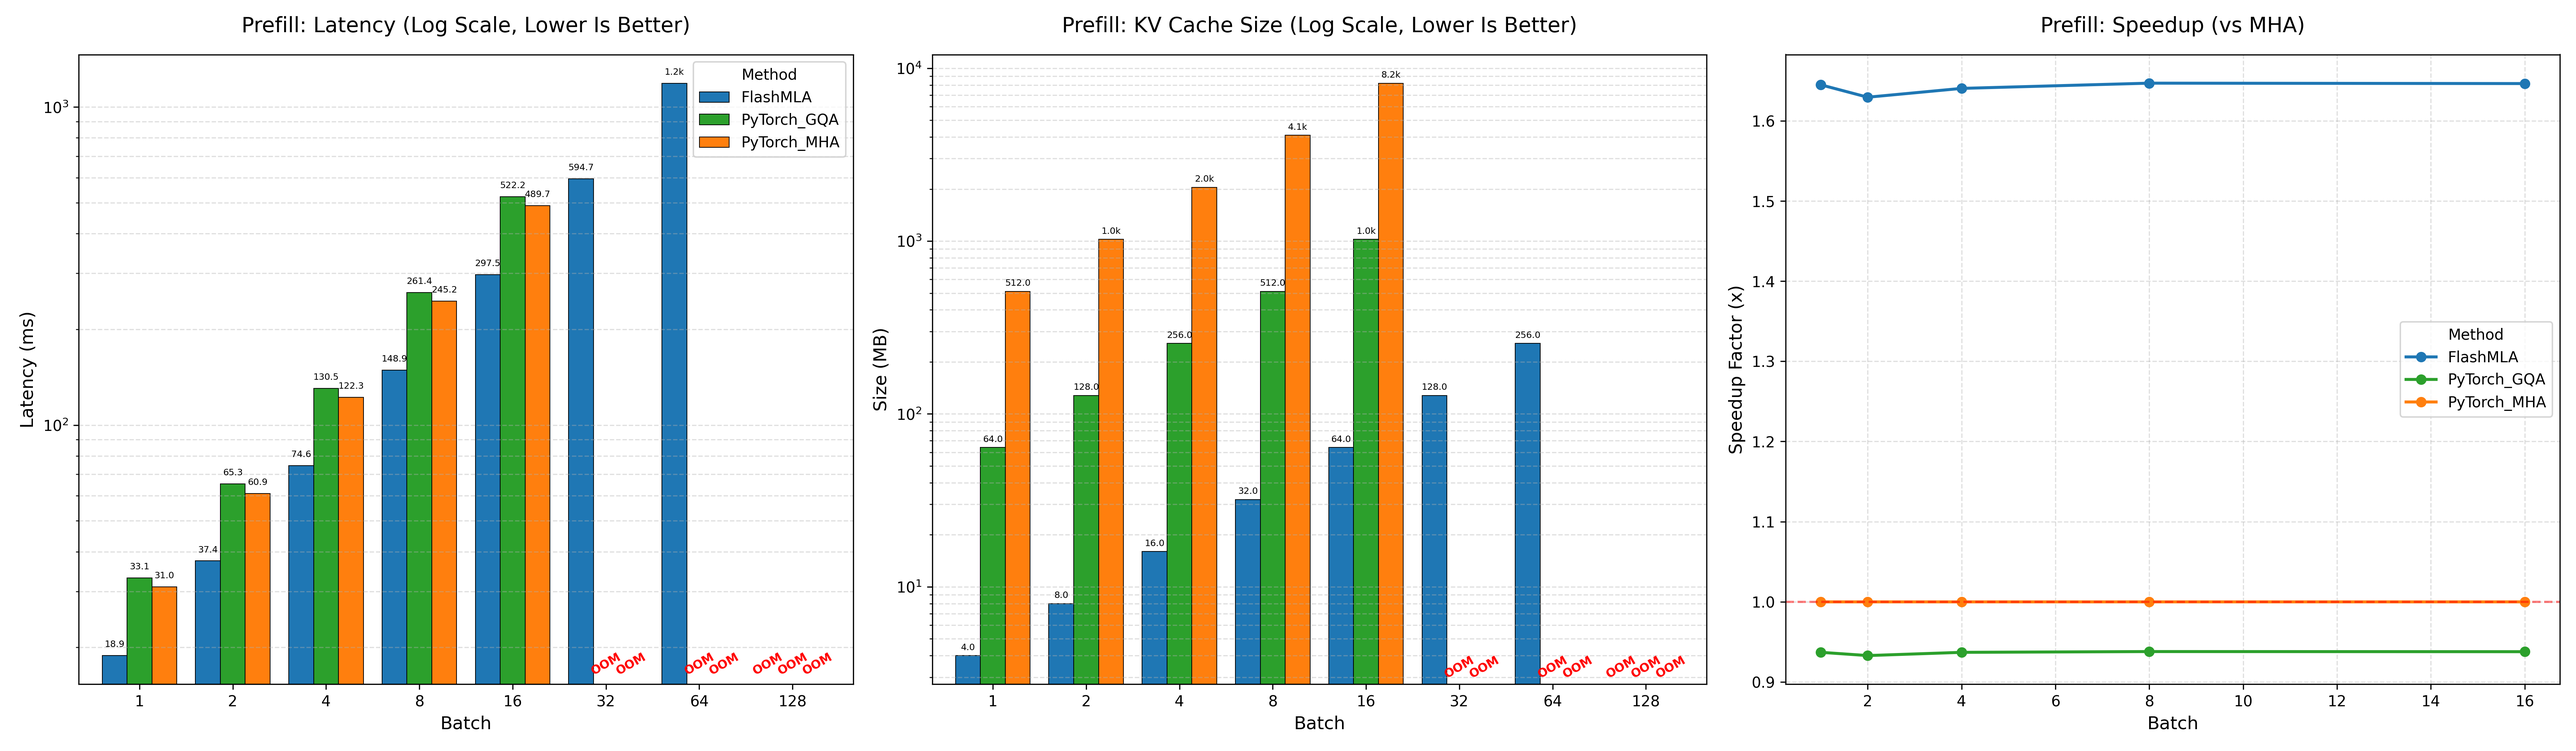
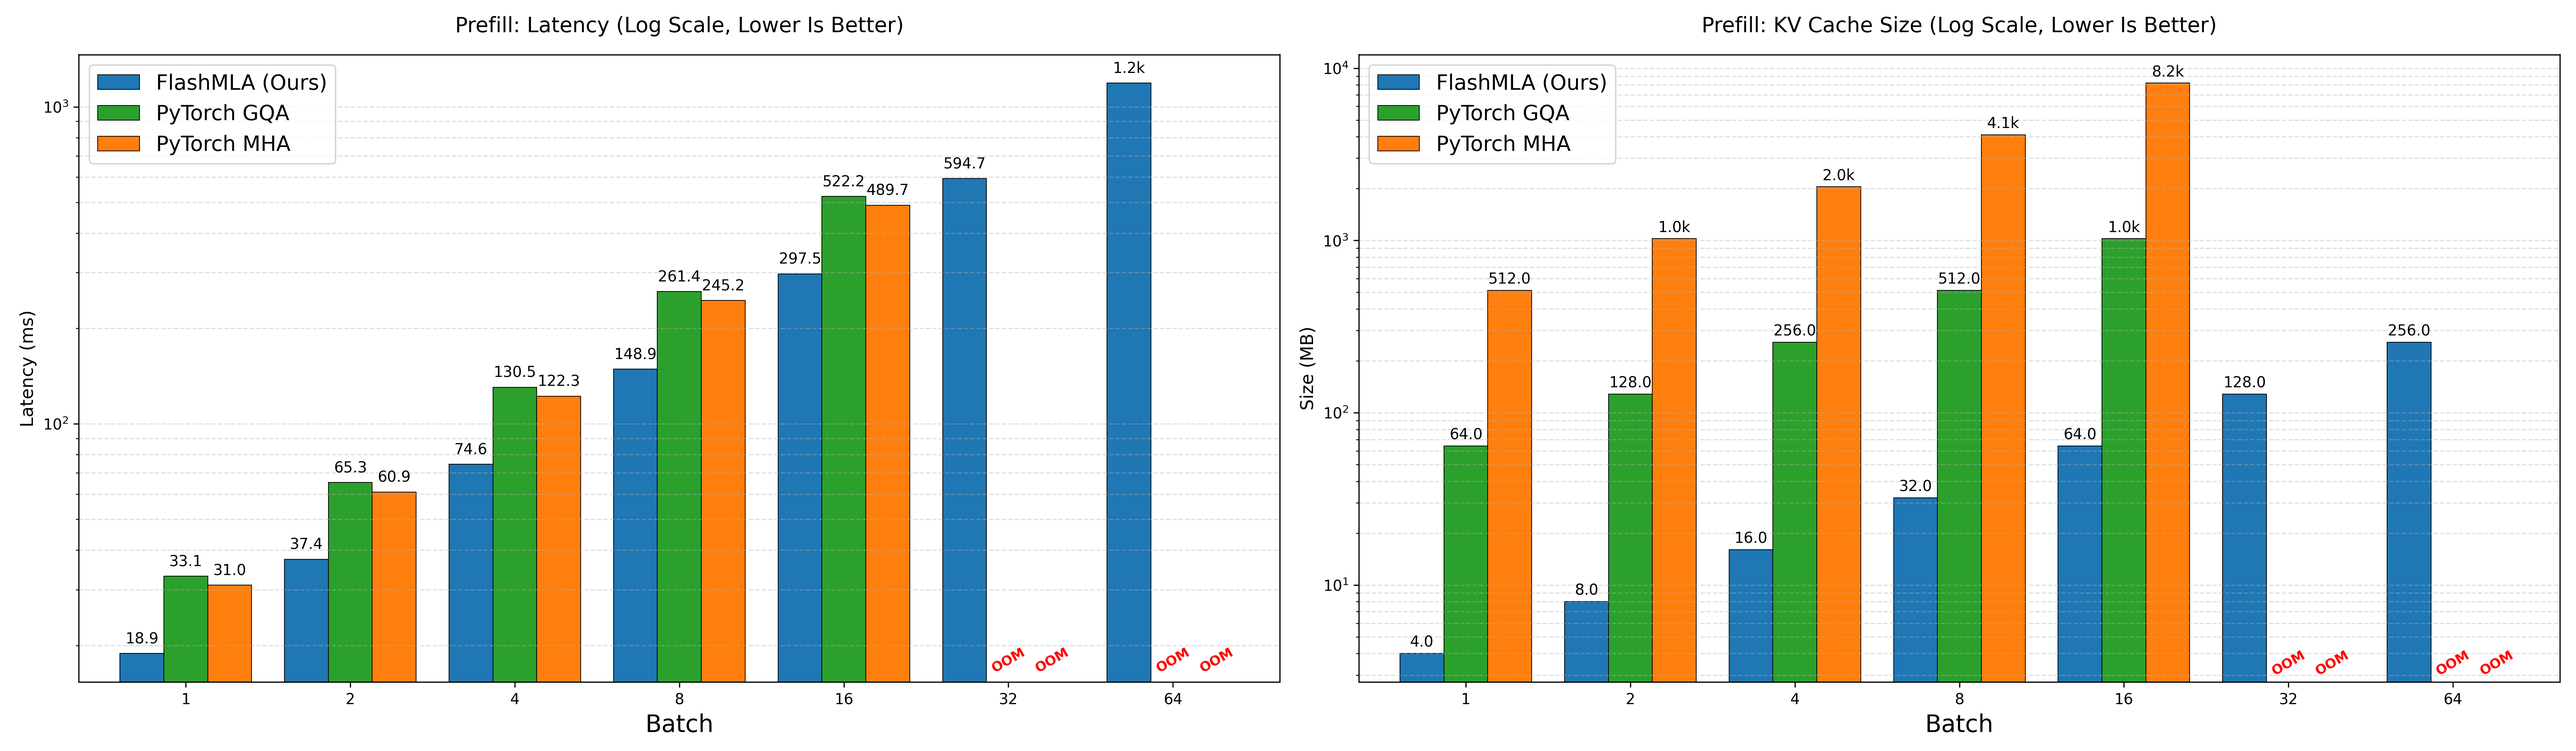
Update prefill results

diff --git a/benchmarks/results/plot.py b/benchmarks/results/plot.py
@@ -5,7 +5,7 @@ import numpy as np
 
 def run_experiment_plot(df, x_col, title_prefix, filename):
 
-    fig, (ax1, ax2, ax3) = plt.subplots(1, 3, figsize=(24, 7))
+    fig, (ax1, ax2) = plt.subplots(1, 2, figsize=(24, 7))
     
     desired_order = ['FlashMLA', 'PyTorch_GQA', 'PyTorch_MHA']
     colors = {'FlashMLA': '#1f77b4', 'PyTorch_GQA': '#2ca02c', 'PyTorch_MHA': '#ff7f0e'}
@@ -34,18 +34,6 @@ def run_experiment_plot(df, x_col, title_prefix, filename):
     ax.set_ylabel("Size (MB)", fontsize=12)
     ax.grid(axis='y', linestyle='--', alpha=0.4, which='both')
 
-    ax = ax3
-    if 'PyTorch_MHA' in pivot_time.columns:
-        speedup_df = pivot_time.copy()
-        for col in speedup_df.columns:
-            speedup_df[col] = pivot_time['PyTorch_MHA'] / pivot_time[col]
-        
-        speedup_df.plot(kind='line', marker='o', linewidth=2, color=color_list, ax=ax)
-        ax.set_title(f"{title_prefix}: Speedup (vs MHA)", fontsize=14, pad=15)
-        ax.set_ylabel("Speedup Factor (x)", fontsize=12)
-        ax.axhline(y=1, color='red', linestyle='--', alpha=0.5)
-        ax.grid(True, linestyle='--', alpha=0.4)
-
     for ax_item in [ax1, ax2]:
         y_min, y_max = ax_item.get_ylim()
         for container in ax_item.containers:
@@ -53,15 +41,18 @@ def run_experiment_plot(df, x_col, title_prefix, filename):
                 height = rect.get_height()
                 if pd.isna(height) or height <= 0:
                     ax_item.text(rect.get_x() + rect.get_width()/2, y_min * 1.05, 'OOM', 
-                                 ha='center', va='bottom', color='red', fontsize=8, fontweight='bold', rotation=30)
+                                 ha='center', va='bottom', color='red', fontsize=9, fontweight='bold', rotation=30)
                 else:
                     txt = f"{height/1000:.1f}k" if height >= 1000 else f"{height:.1f}"
                     ax_item.text(rect.get_x() + rect.get_width()/2, height * 1.05, txt, 
-                                 ha='center', va='bottom', fontsize=6)
+                                 ha='center', va='bottom', fontsize=10)
 
-    for ax_item in [ax1, ax2, ax3]:
-        ax_item.set_xlabel(x_col, fontsize=12)
+    for ax_item in [ax1, ax2]:
+        ax_item.set_xlabel(x_col, fontsize=16)
         ax_item.tick_params(axis='x', rotation=0)
+    
+    ax1.legend(['FlashMLA (Ours)', 'PyTorch GQA', 'PyTorch MHA'], fontsize=14, loc='upper left')
+    ax2.legend(['FlashMLA (Ours)', 'PyTorch GQA', 'PyTorch MHA'], fontsize=14, loc='upper left')
 
     plt.tight_layout()
     plt.savefig(filename, dpi=300)

diff --git a/benchmarks/benchmark_prefill.py b/benchmarks/benchmark_prefill.py
@@ -168,7 +168,7 @@ if __name__ == "__main__":
         run_suite("Var_SeqLen", B=4, N=n, H_Q=H, D=D, csv_data=csv_data)
 
     print(f"\n[Experiment 2] Variable Batch (Seq=4096, Heads={H}, Dim={D})")
-    batches = [1, 2, 4, 8, 16, 32, 64, 128]
+    batches = [1, 2, 4, 8, 16, 32, 64]
     for b in batches:
         run_suite("Var_Batch", B=b, N=4096, H_Q=H, D=D, csv_data=csv_data)
 
